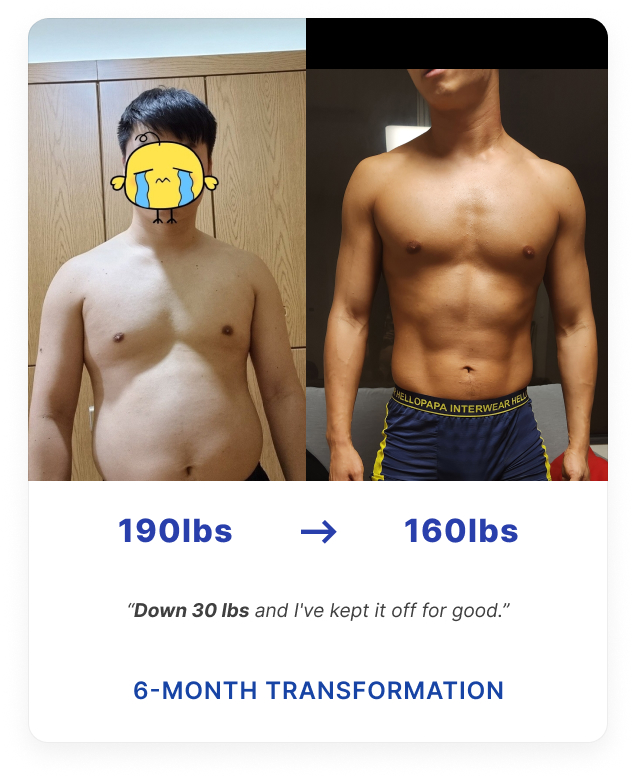
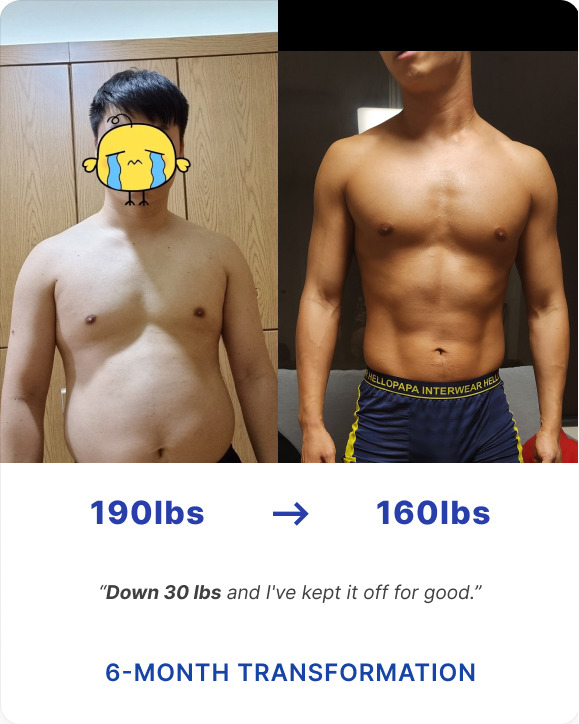
Strip transparent/white padding from transformation card exports
The new exports had a transparent (PNG) or white (JPG) margin baked
in around the actual card artwork. Against the site's white tile
background, that margin rendered as a second white frame around the
card -- a card within a card. Cropped each to its real content bounds
and padded by ~1px to hit the tile's exact 4:5 ratio, so the artwork
now fills the tile directly with no visible border of any kind.
Converted the two PNGs to JPG since the transparency is no longer
needed once composited onto white.

diff --git a/index.html b/index.html
@@ -206,9 +206,9 @@
         </div>
         <div class="gallery-grid results-grid">
           <img src="assets/client-successes/Nick Transformation.jpg" alt="Nick's JHKFIT client transformation result" loading="lazy">
-          <img src="assets/client-successes/Baylen transformation.png" alt="Baylen's JHKFIT client transformation result" loading="lazy">
+          <img src="assets/client-successes/Baylen transformation.jpg" alt="Baylen's JHKFIT client transformation result" loading="lazy">
           <img src="assets/client-successes/Jeongwoong transformation.jpg" alt="Jeongwoong's JHKFIT client transformation result" loading="lazy">
-          <img src="assets/client-successes/johnny transformation.png" alt="Johnny's JHKFIT client transformation result" loading="lazy">
+          <img src="assets/client-successes/johnny transformation.jpg" alt="Johnny's JHKFIT client transformation result" loading="lazy">
           <img src="assets/client-successes/Illini Barbell Classic_JD_03082026-203.jpg" alt="JHKFIT client on stage at the Illini Barbell Classic" loading="lazy">
           <img src="assets/client-successes/Illini Barbell Classic_JD_03082026-241 (1).jpg" alt="JHKFIT client on stage at the Illini Barbell Classic" loading="lazy">
           <img src="assets/client-successes/Nick Backstage.jpg" alt="Nick backstage at a JHKFIT client competition" loading="lazy">
